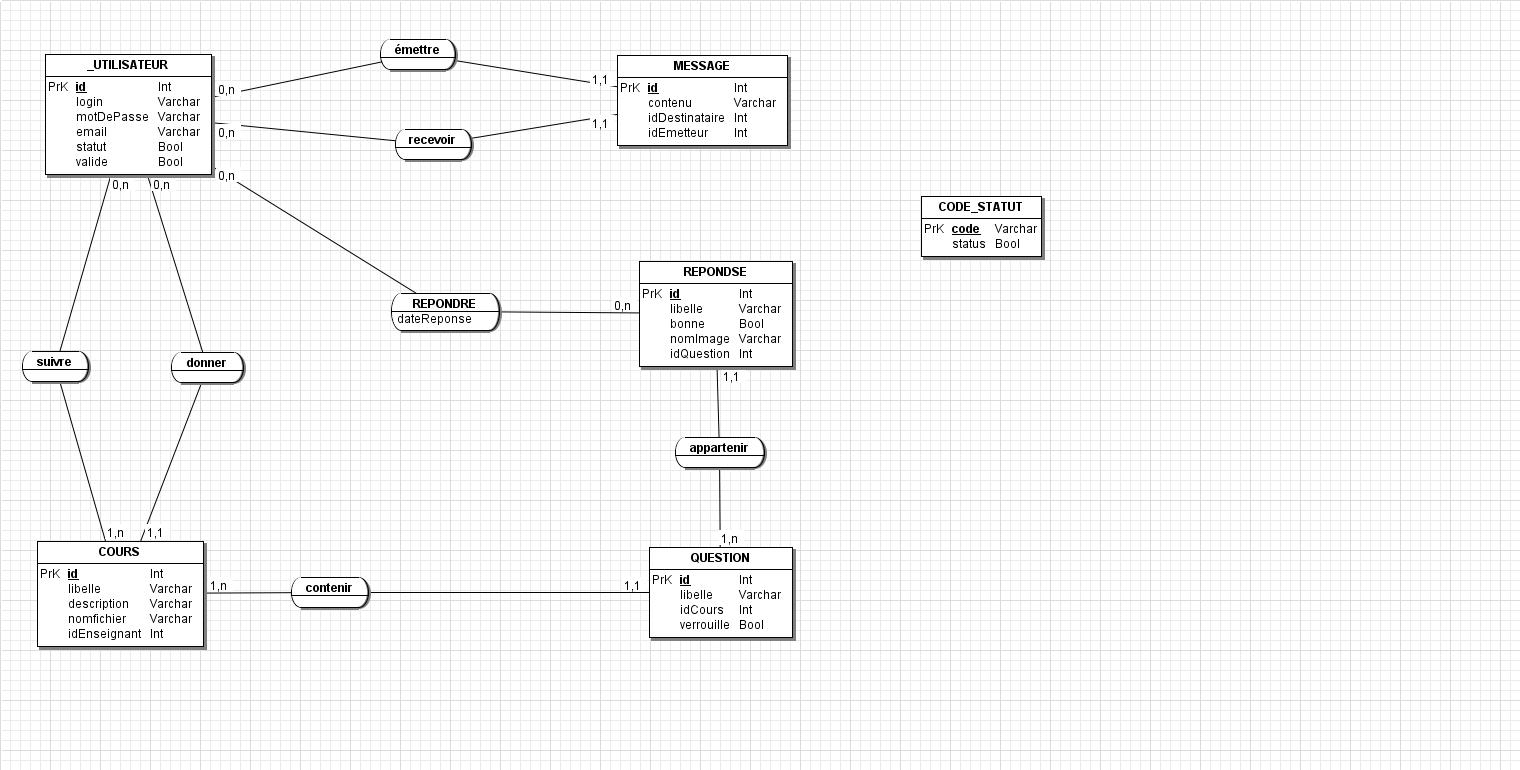
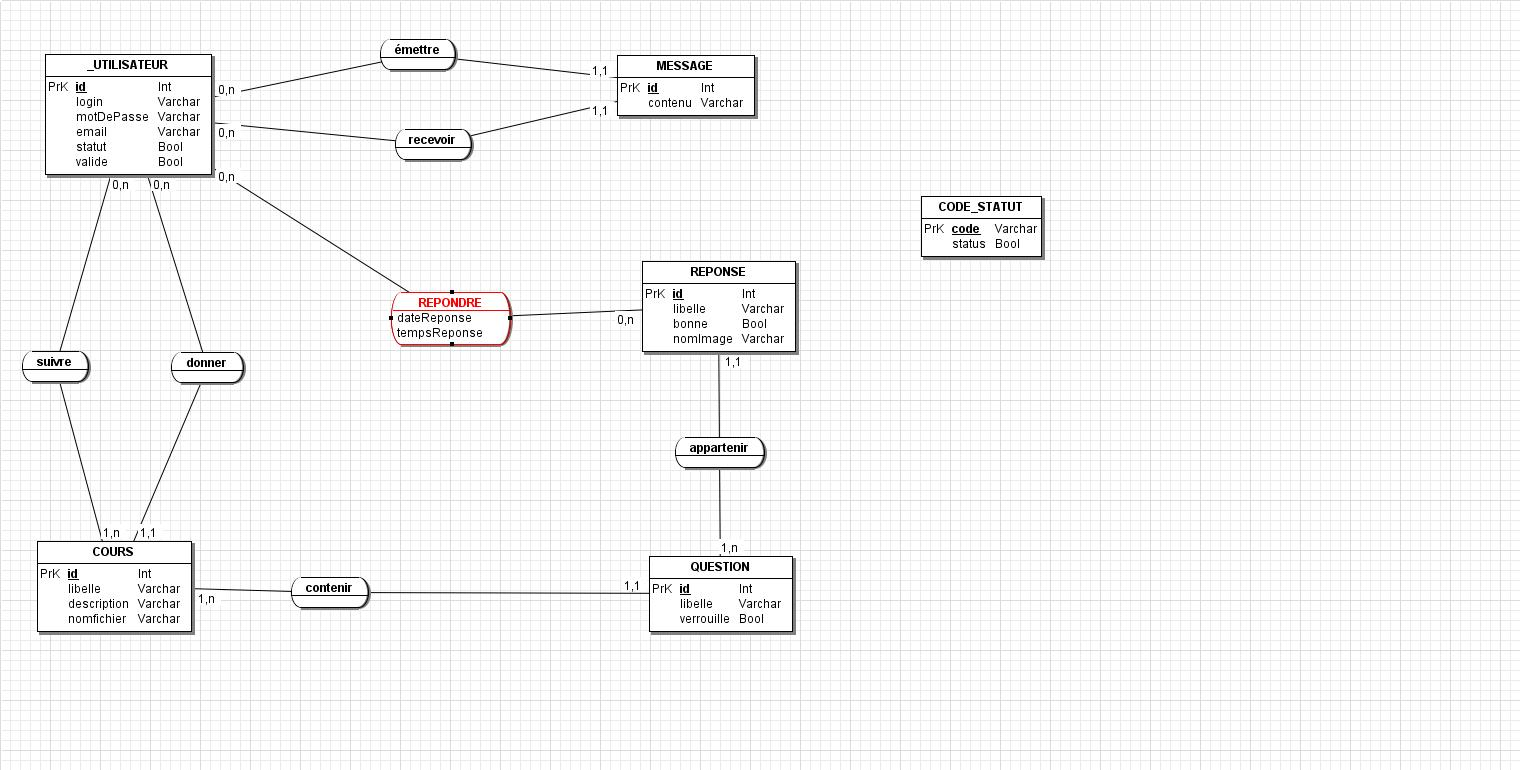
BDD + créer un QCM en cours

diff --git a/Sources/js/main.js b/Sources/js/main.js
@@ -23,7 +23,6 @@ jQuery(function($) {'use strict',
 			$('#email').hide();
 
 			toggled = true;
-			console.log(toggled);
 		}else {
 			$("#inputLogin").hide();
 			$("#inputEmail").hide();
@@ -34,7 +33,6 @@ jQuery(function($) {'use strict',
 			$('#email').css('display', 'block');
 
 			toggled = false;
-			console.log(toggled);
 		}
 	});
 
@@ -47,6 +45,57 @@ jQuery(function($) {'use strict',
 		$('#login').css('display', 'block');
 		$('#email').css('display', 'block');
 	});
+
+
+	// Page Creation QCM
+		$('#btnMoreReponse').on('click', function(){
+			$(".add-reponse").css('display', 'block');
+			$('#btnMoreReponse').hide();
+			$("#btnLessReponse").css('display', 'block');
+		});
+
+		$('#btnLessReponse').on('click', function(){
+			$(".add-reponse").hide();
+			$('#btnLessReponse').hide();
+			$("#btnMoreReponse").css('display', 'block');
+		});
+
+		var index = 0;
+		$('#btnAddReponse').on('click', function(){
+			index++;
+			console.log(i);
+			var li = document.createElement("li");
+			var libelleReponse = document.getElementsByName('libelleReponse')[0].value;
+			var textReponse = document.createTextNode(libelleReponse);
+			li.appendChild(textReponse);
+
+			var input = document.createElement("input");
+			input.setAttribute("value", libelleReponse);
+			input.setAttribute("name", "reponse"+index);
+			input.setAttribute("type", "hidden");
+			li.appendChild(input);
+
+			if (document.getElementsByName('bonneReponse')[0].checked) {
+				li.className += "bonneReponse";
+			}else {
+				li.className += "mauvaiseReponse";
+			}
+
+			var btn = document.createElement("span");
+			btn.id = "btnDeleteReponse";
+			var i = document.createElement("i");
+			i.className += "fa fa-trash-o fa-lg";
+			btn.appendChild(i);
+			li.appendChild(btn);
+
+			document.getElementById("listeReponses").appendChild(li);
+
+			$(".add-reponse").hide();
+			$('#btnLessReponse').hide();
+			$("#btnMoreReponse").css('display', 'block');
+
+		});
+	//
 
 	//Initiat WOW JS
 	new WOW().init();

diff --git a/Sources/css/main.css b/Sources/css/main.css
@@ -1,8 +1,79 @@
 @import url(http://fonts.googleapis.com/css?family=Open+Sans:300italic,400italic,600italic,700italic,800italic,400,600,700,300,800);
 
 #market{
-	margin-top: 11%;
+	margin-top: 8%;
 }
+
+/*Page création QCM*/
+.add-question p{
+	margin-top: 5%;
+	font-size: 20px;
+	font-weight: 600;
+	color: #4e4e4e;
+}
+
+.add-question>.msform{
+	margin: 0;
+}
+
+#btnMoreReponse{
+	cursor: pointer;
+	border: none;
+	background-color: transparent;
+	color: #27AE60 ;
+}
+
+#btnLessReponse{
+	cursor: pointer;
+	border: none;
+	background-color: transparent;
+	color: #c52d2f;
+	display: none;
+}
+
+#btnDeleteReponse{
+	cursor: pointer;
+	border: none;
+	background-color: transparent;
+	color: #c52d2f;
+}
+
+.add-reponse{
+	display: none;
+}
+
+.add-reponse input[type="checkbox"]{
+	float: none;
+	width: auto;
+}
+
+.add-reponse .checkbox{
+padding-top: 4px;
+}
+
+#btnAddRepons	e{
+	margin-top: 5px;
+}
+
+#btnValiderQuestion{
+	width: 100%;
+}
+
+.bonneReponse{
+	list-style-image: url(../images/ico/checked.png);
+}
+
+.mauvaiseReponse{
+	list-style-image: url(../images/ico/unchecked.png);
+}
+
+#deleteReponse{
+	list-style: none;
+	padding: 0;
+}
+/**/
+
+
 
 /*Page mon compte*/
 

diff --git a/Sources/css/formulaires.css b/Sources/css/formulaires.css
@@ -13,7 +13,7 @@
 	box-sizing: border-box;
 	width: 80%;
 	margin: 0 10%;
-	
+
 	/*stacking fieldsets above each other*/
 	position: relative;
 }

diff --git a/Sources/pages/creationQCM.php b/Sources/pages/creationQCM.php
@@ -1,0 +1,95 @@
+<?php
+	session_start();
+	// if (!isset($_SESSION['login'])){
+	// 	header('Location: index.php');
+	// }
+    $title="Création QCM";
+    include("header.php");
+	include("../php/infoCompte.php");
+?>
+
+<section id="feature" >
+	<div class="container">
+	   <div class="center wow fadeInDown">
+			<h2>Créer un QCM pour le cours <?php echo "xxx"; ?> </h2>
+			<p class="lead">Ici vous pouvez créer un QCM et lui ajouter des réponses</p>
+
+		</div>
+
+		<form class="" action="../php/ajoutQCM.php" method="post">
+
+			<div class="row">
+				<div class="features">
+					 <div class="col-md-12 col-sm-12 wow fadeInDown add-question" data-wow-duration="1000ms" data-wow-delay="600ms">
+						<div class="col-md-2"></div>
+						<div class="col-md-3">
+							<p>Libelle de la question</p>
+						</div>
+						<div class="col-md-5 msform">
+							<input name="libelleQuestion" type="text" value="" size="30"/>
+						</div>
+					</div>
+				</div>
+			</div>
+
+			<div class="row">
+				<div class="features">
+					<div class="col-md-12 col-sm-12 wow fadeInDown add-question" data-wow-duration="1000ms" data-wow-delay="600ms">
+						<div class="col-md-2"></div>
+						<div class="col-md-3">
+							<ul id="listeReponses" name="listeReponses">
+							</ul>
+						</div>
+
+					</div>
+				</div>
+			</div>
+
+			<div class="row">
+				<div class="col-md-12 col-sm-12 wow fadeInDown" data-wow-duration="1000ms" data-wow-delay="600ms">
+					<div class="col-md-2"></div>
+					<div class="col-md-3">
+						<span id="btnMoreReponse">
+							<i class="fa fa-plus-circle fa-lg"/></i> Ajouter une réponse
+						</span>
+						<span id="btnLessReponse">
+							<i class="fa fa-minus-circle  fa-lg"/></i> Annuler
+						</span>
+					</div>
+					<div class="col-md-7 ">
+					</div>
+				</div>
+			</div>
+
+			<div class=" row msform">
+				<div class="col-md-12 col-sm-12 add-reponse" data-wow-duration="1000ms" data-wow-delay="600ms">
+					<div class="col-md-2"></div>
+					<div class="col-lg-4">
+						<input type="text" name="libelleReponse" value="" placeholder="Libelle">
+					</div>
+					<div class="col-lg-2 checkbox">
+						<label><input type="checkbox" name="bonneReponse" value=""> Bonne réponse</label>
+					</div>
+					<div class="col-md-2" style="text-align: right;">
+						<span id='btnAddReponse' class="next action-button">Valider</span>
+					</div>
+				</div>
+			</div>
+
+			<div class=" row msform">
+				<div class="col-md-12 col-sm-12 wow fadeInDown" data-wow-duration="1000ms" data-wow-delay="600ms">
+					<div class="col-md-2"></div>
+					<div class="col-md-8">
+						<button id='btnValiderQuestion' type="submit" class="next action-button">Valider le QCM</button>
+					</div>
+				</div>
+			</div>
+		</form>
+
+	</div>
+</section><!--/#feature-->
+
+<?php
+	$nomScript="";
+    include("footer.php");
+?>

diff --git a/Sources/php/ajoutQCM.php b/Sources/php/ajoutQCM.php
@@ -1,0 +1,7 @@
+<?php
+session_start();
+$id = $_SESSION["id"];
+$link = new mysqli('localhost', 'root', 'mysql', 'handsup');
+die(var_dump($_POST));
+
+?>
